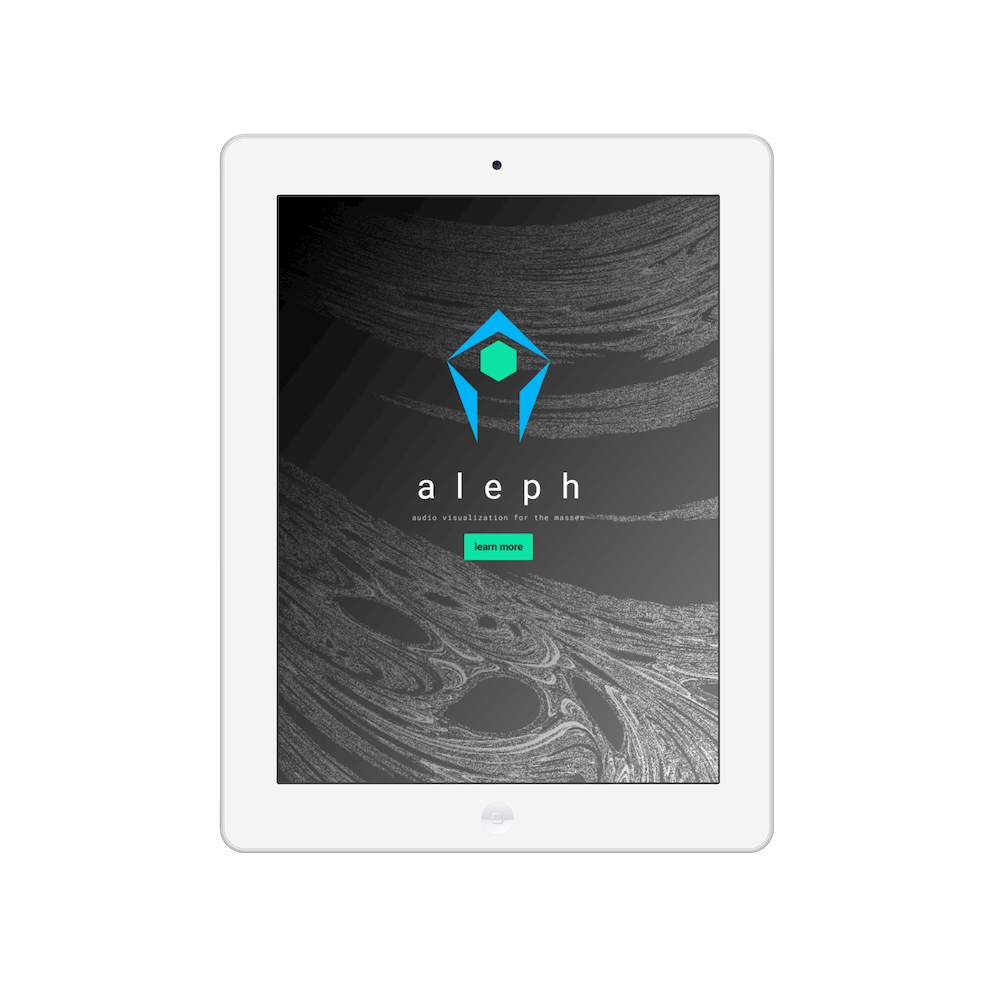
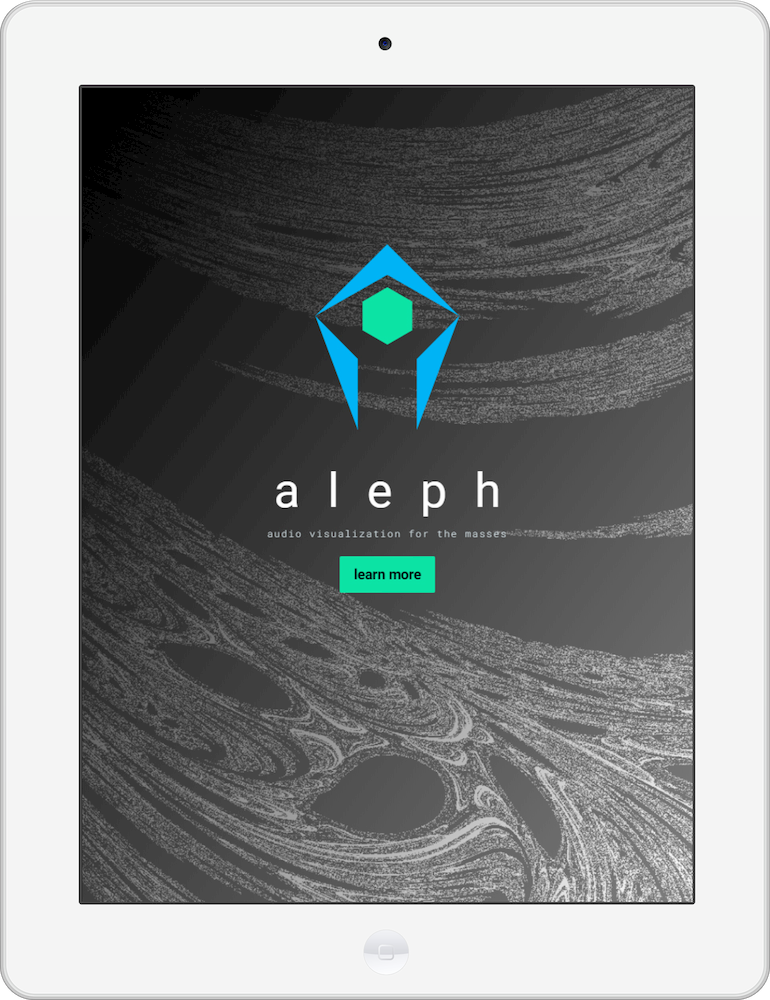
further optimize website mockup imgs and refactor to use grid

diff --git a/index.html b/index.html
@@ -96,10 +96,7 @@
 						<p id="dropdown-album-art" class="dropdown__link">album art</p>
 					</div>
 					<div class="dropdown__item">
-						<p id="dropdown-logos" class="dropdown__link">logos</p>
-					</div>
-					<div class="dropdown__item">
-						<p id="dropdown-flyers" class="dropdown__link">flyers</p>
+						<p id="dropdown-logos" class="dropdown__link">misc</p>
 					</div>
 				</div>
 			</div>
@@ -109,9 +106,9 @@
 			<div class="website">
 				<h3 class="website__title">woulg.com</h3>
 				<div class="website__gallery">
-					<img src="assets/img/woulg - phone.png" alt="" class="website__img website__img--phone">
-					<img src="assets/img/woulg - desktop.png" alt="" class="website__img website__img--desktop">
-					<img src="assets/img/woulg - tablet.png" alt="" class="website__img website__img--tablet">
+					<img src="assets/img/woulg - phone.png" alt="" class="website__img">
+					<img src="assets/img/woulg - desktop.png" alt="" class="website__img">
+					<img src="assets/img/woulg - tablet.png" alt="" class="website__img">
 				</div>
 				<p class="website__body">
 					Custom portfolio website for Montreal based musician and new media artist Woulg.
@@ -137,9 +134,9 @@
 			<div class="website">
 				<h3 class="website__title">aleph</h3>
 				<div class="website__gallery">
-					<img src="assets/img/aleph - phone.png" alt="" class="website__img website__img--phone">
-					<img src="assets/img/aleph - desktop.png" alt="" class="website__img website__img--desktop">
-					<img src="assets/img/aleph - tablet.png" alt="" class="website__img website__img--tablet">
+					<img src="assets/img/aleph - phone.png" alt="" class="website__img">
+					<img src="assets/img/aleph - desktop.png" alt="" class="website__img">
+					<img src="assets/img/aleph - tablet.png" alt="" class="website__img">
 				</div>
 				<p class="website__body">
 					Online home for my open source audio-visualization project, Aleph.
@@ -234,7 +231,7 @@
 					<img src="assets/img/racket.jpg" alt="absolute racket ui image" class="card__img">
 					<p class="card__body">
 						Absolute Racket is an audiovisual synthesizer you can play in a browser. Notes are played on the keyboard while the mouse
-						tweaks an array of parameters that allow for a surprisingly diverse selection of sounds. All sounds are visualized in
+						tweaks parameters that allow for a surprisingly diverse selection of sounds. All sounds are visualized in
 						realtime, giving additional feedback to the user.
 					</p>
 					<p class="card__body"> <strong>Tools Used:</strong> </p>

diff --git a/sass/components/_website.scss b/sass/components/_website.scss
@@ -4,6 +4,7 @@
     padding: 2rem;
     border-radius: $border-radius;
     margin-bottom: 5rem;
+    max-width: 67vw;
     @include shadow(0, .2rem, .25rem, 0.1);
     
     &__title{
@@ -11,51 +12,29 @@
     }
 
     &__gallery {
-        position: relative;
-        display: flex;
-        justify-content: space-between;
+        padding: 3rem;
+
+        display: grid;
+        grid-template-rows: 1;
+        grid-template-columns: repeat(3, 1fr);
+        justify-items: center;
         align-items: center;
-        z-index: 0;
     }
 
     &__img {
-        width: 30vw;
-        height: 100%;
         transition: .2s ease-in-out all;
-        margin: -2vw;
+        height: 12vw;
 
-        &--phone {
-            transform: scale(.5);
-            
-            &:hover {
-                transform: scale(.75);
-            }
-        }
-
-        &--desktop {
-            &:hover {
-                transform: scale(1.5);
-            }
-        }
-
-        &--tablet {
-            transform: scale(.85);
-            
-            &:hover {
-                transform: scale(1.275);
-            }
+        &:hover {
+            transform: scale(1.25);
         }
     }
 
     &__body {
-        position: relative;
-        z-index: 2;
         font-size: $font-paragraph;
     }
 
     &__dev {
-        position: relative;
-        z-index: 2;
         margin-bottom: 2rem;
     }
 }

diff --git a/css/style.css b/css/style.css
@@ -317,37 +317,25 @@ body::-webkit-scrollbar-thumb {
   padding: 2rem;
   border-radius: 3px;
   margin-bottom: 5rem;
+  max-width: 67vw;
   box-shadow: 0 0.2rem 0.25rem rgba(0, 0, 0, 0.1); }
   .website__title {
     font-size: 3.5rem; }
   .website__gallery {
-    position: relative;
-    display: flex;
-    justify-content: space-between;
-    align-items: center;
-    z-index: 0; }
+    padding: 3rem;
+    display: grid;
+    grid-template-rows: 1;
+    grid-template-columns: repeat(3, 1fr);
+    justify-items: center;
+    align-items: center; }
   .website__img {
-    width: 30vw;
-    height: 100%;
     transition: .2s ease-in-out all;
-    margin: -2vw; }
-    .website__img--phone {
-      transform: scale(0.5); }
-      .website__img--phone:hover {
-        transform: scale(0.75); }
-    .website__img--desktop:hover {
-      transform: scale(1.5); }
-    .website__img--tablet {
-      transform: scale(0.85); }
-      .website__img--tablet:hover {
-        transform: scale(1.275); }
+    height: 12vw; }
+    .website__img:hover {
+      transform: scale(1.25); }
   .website__body {
-    position: relative;
-    z-index: 2;
     font-size: 1.6rem; }
   .website__dev {
-    position: relative;
-    z-index: 2;
     margin-bottom: 2rem; }
 
 .button {
